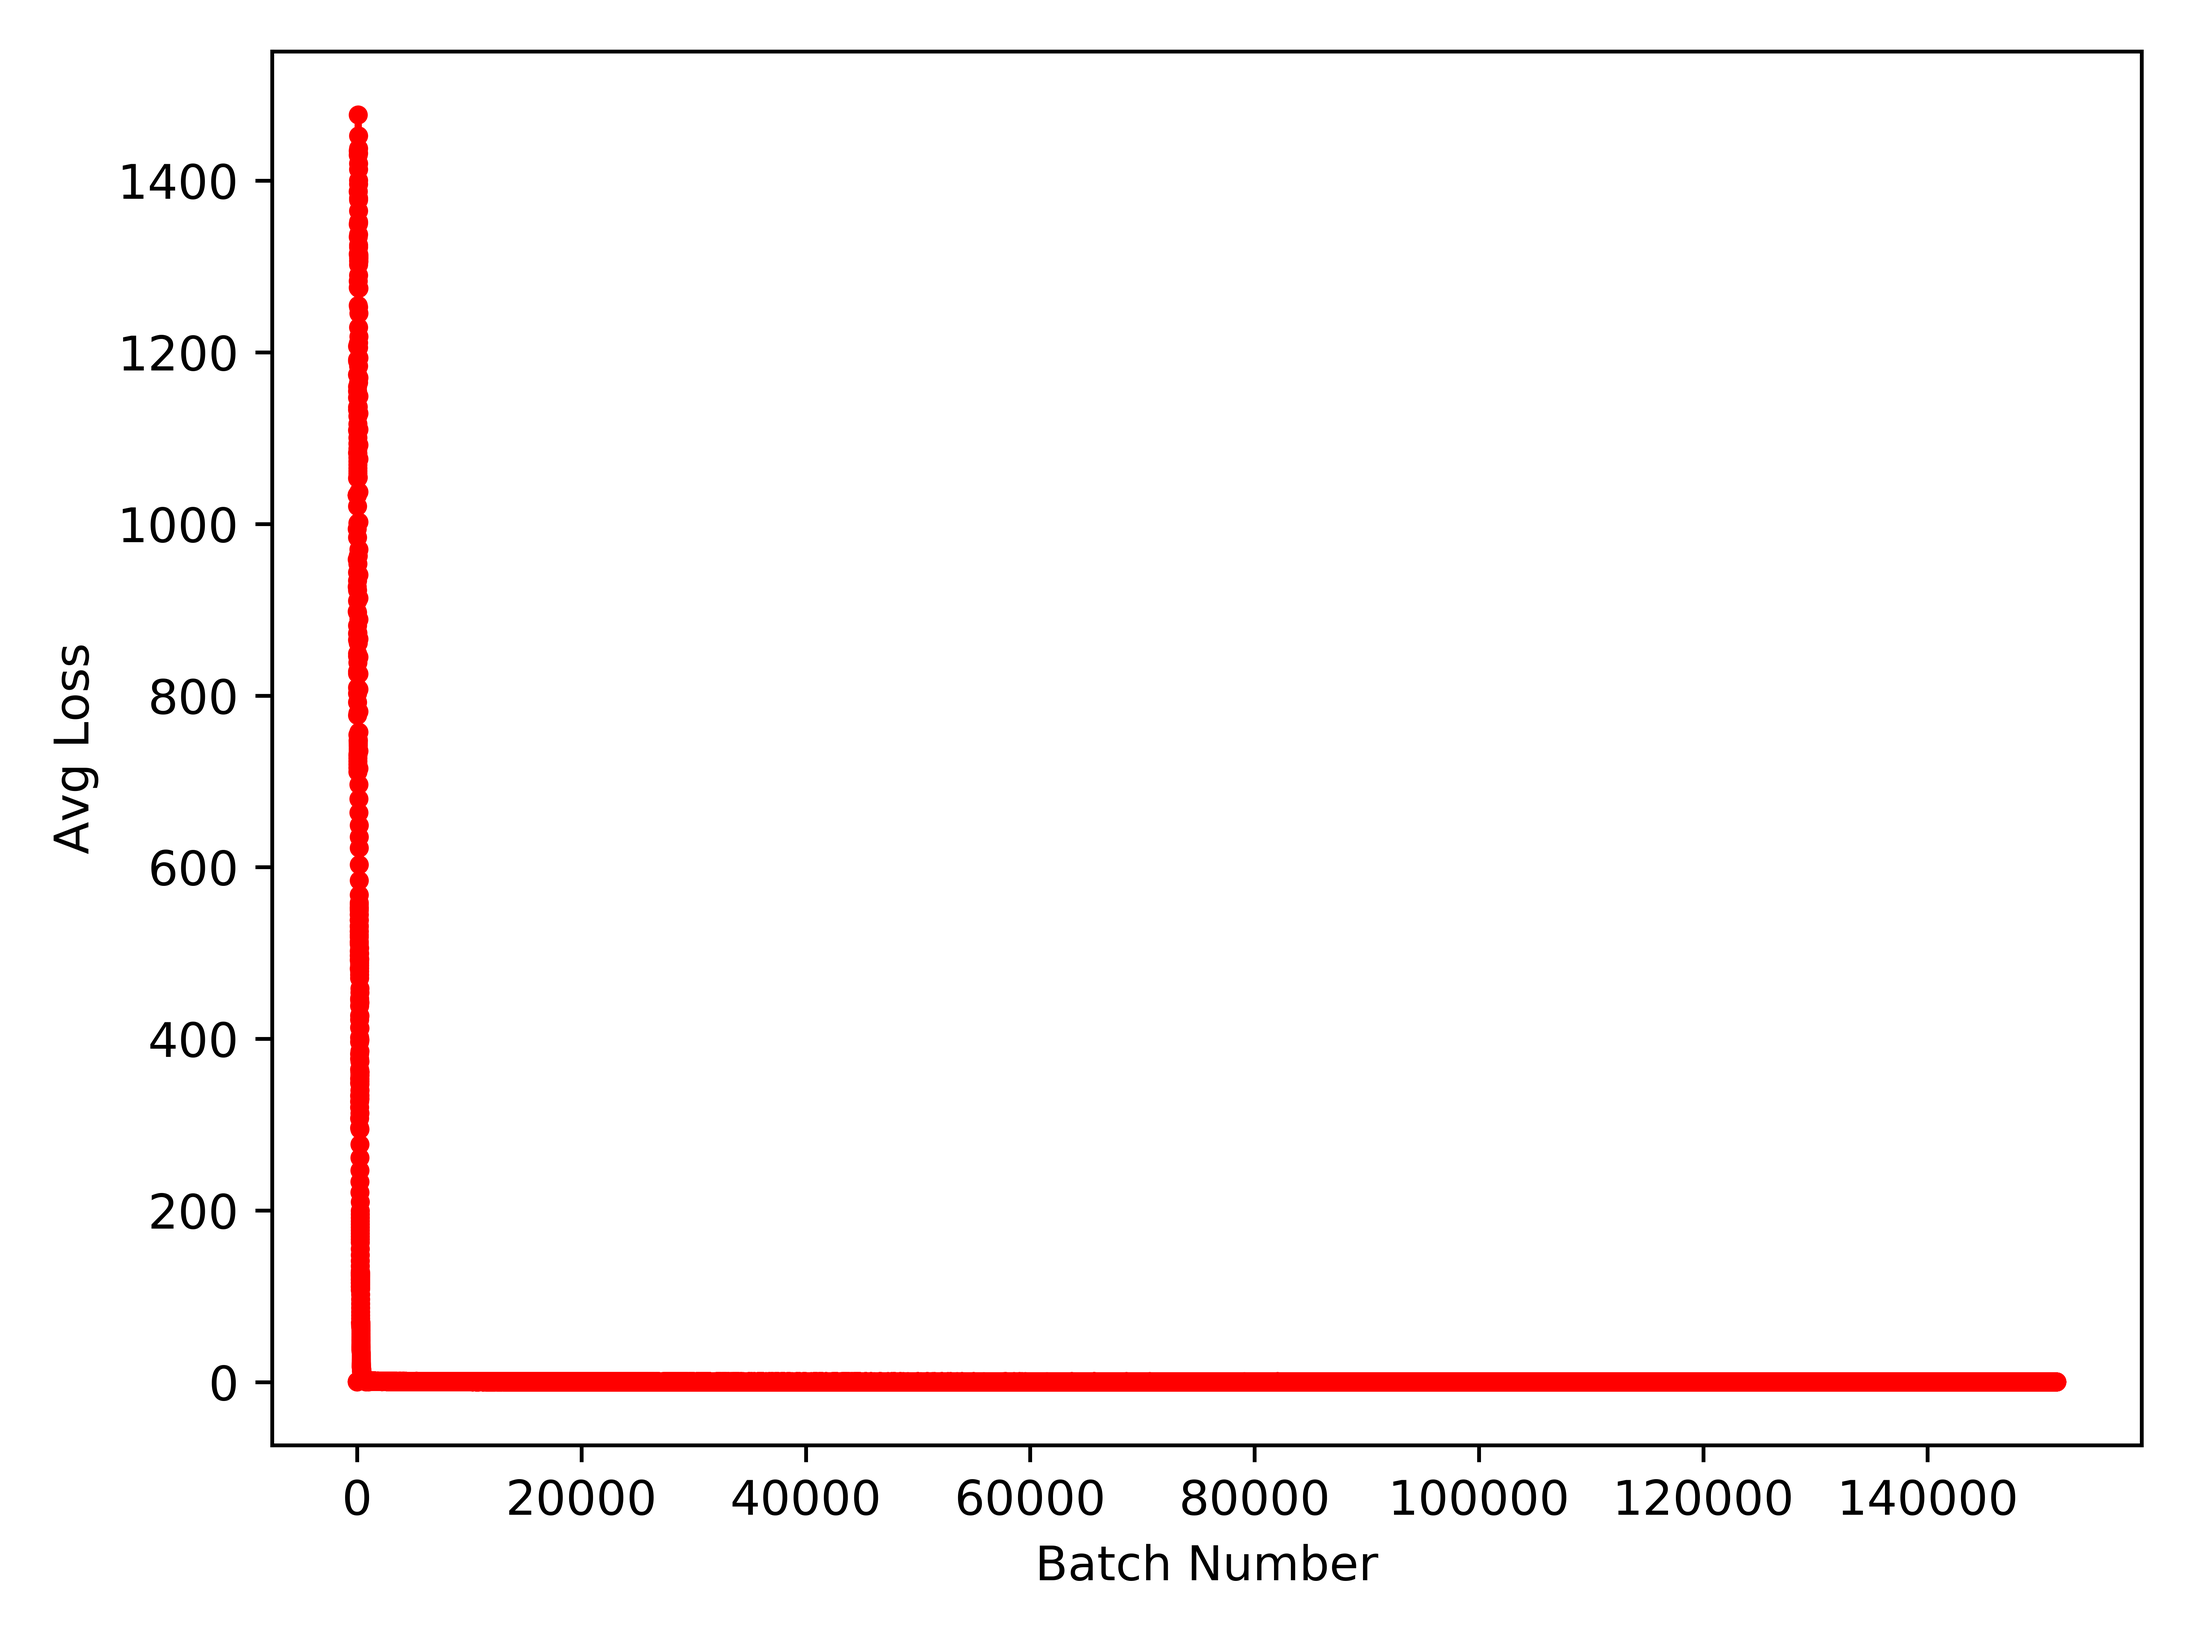
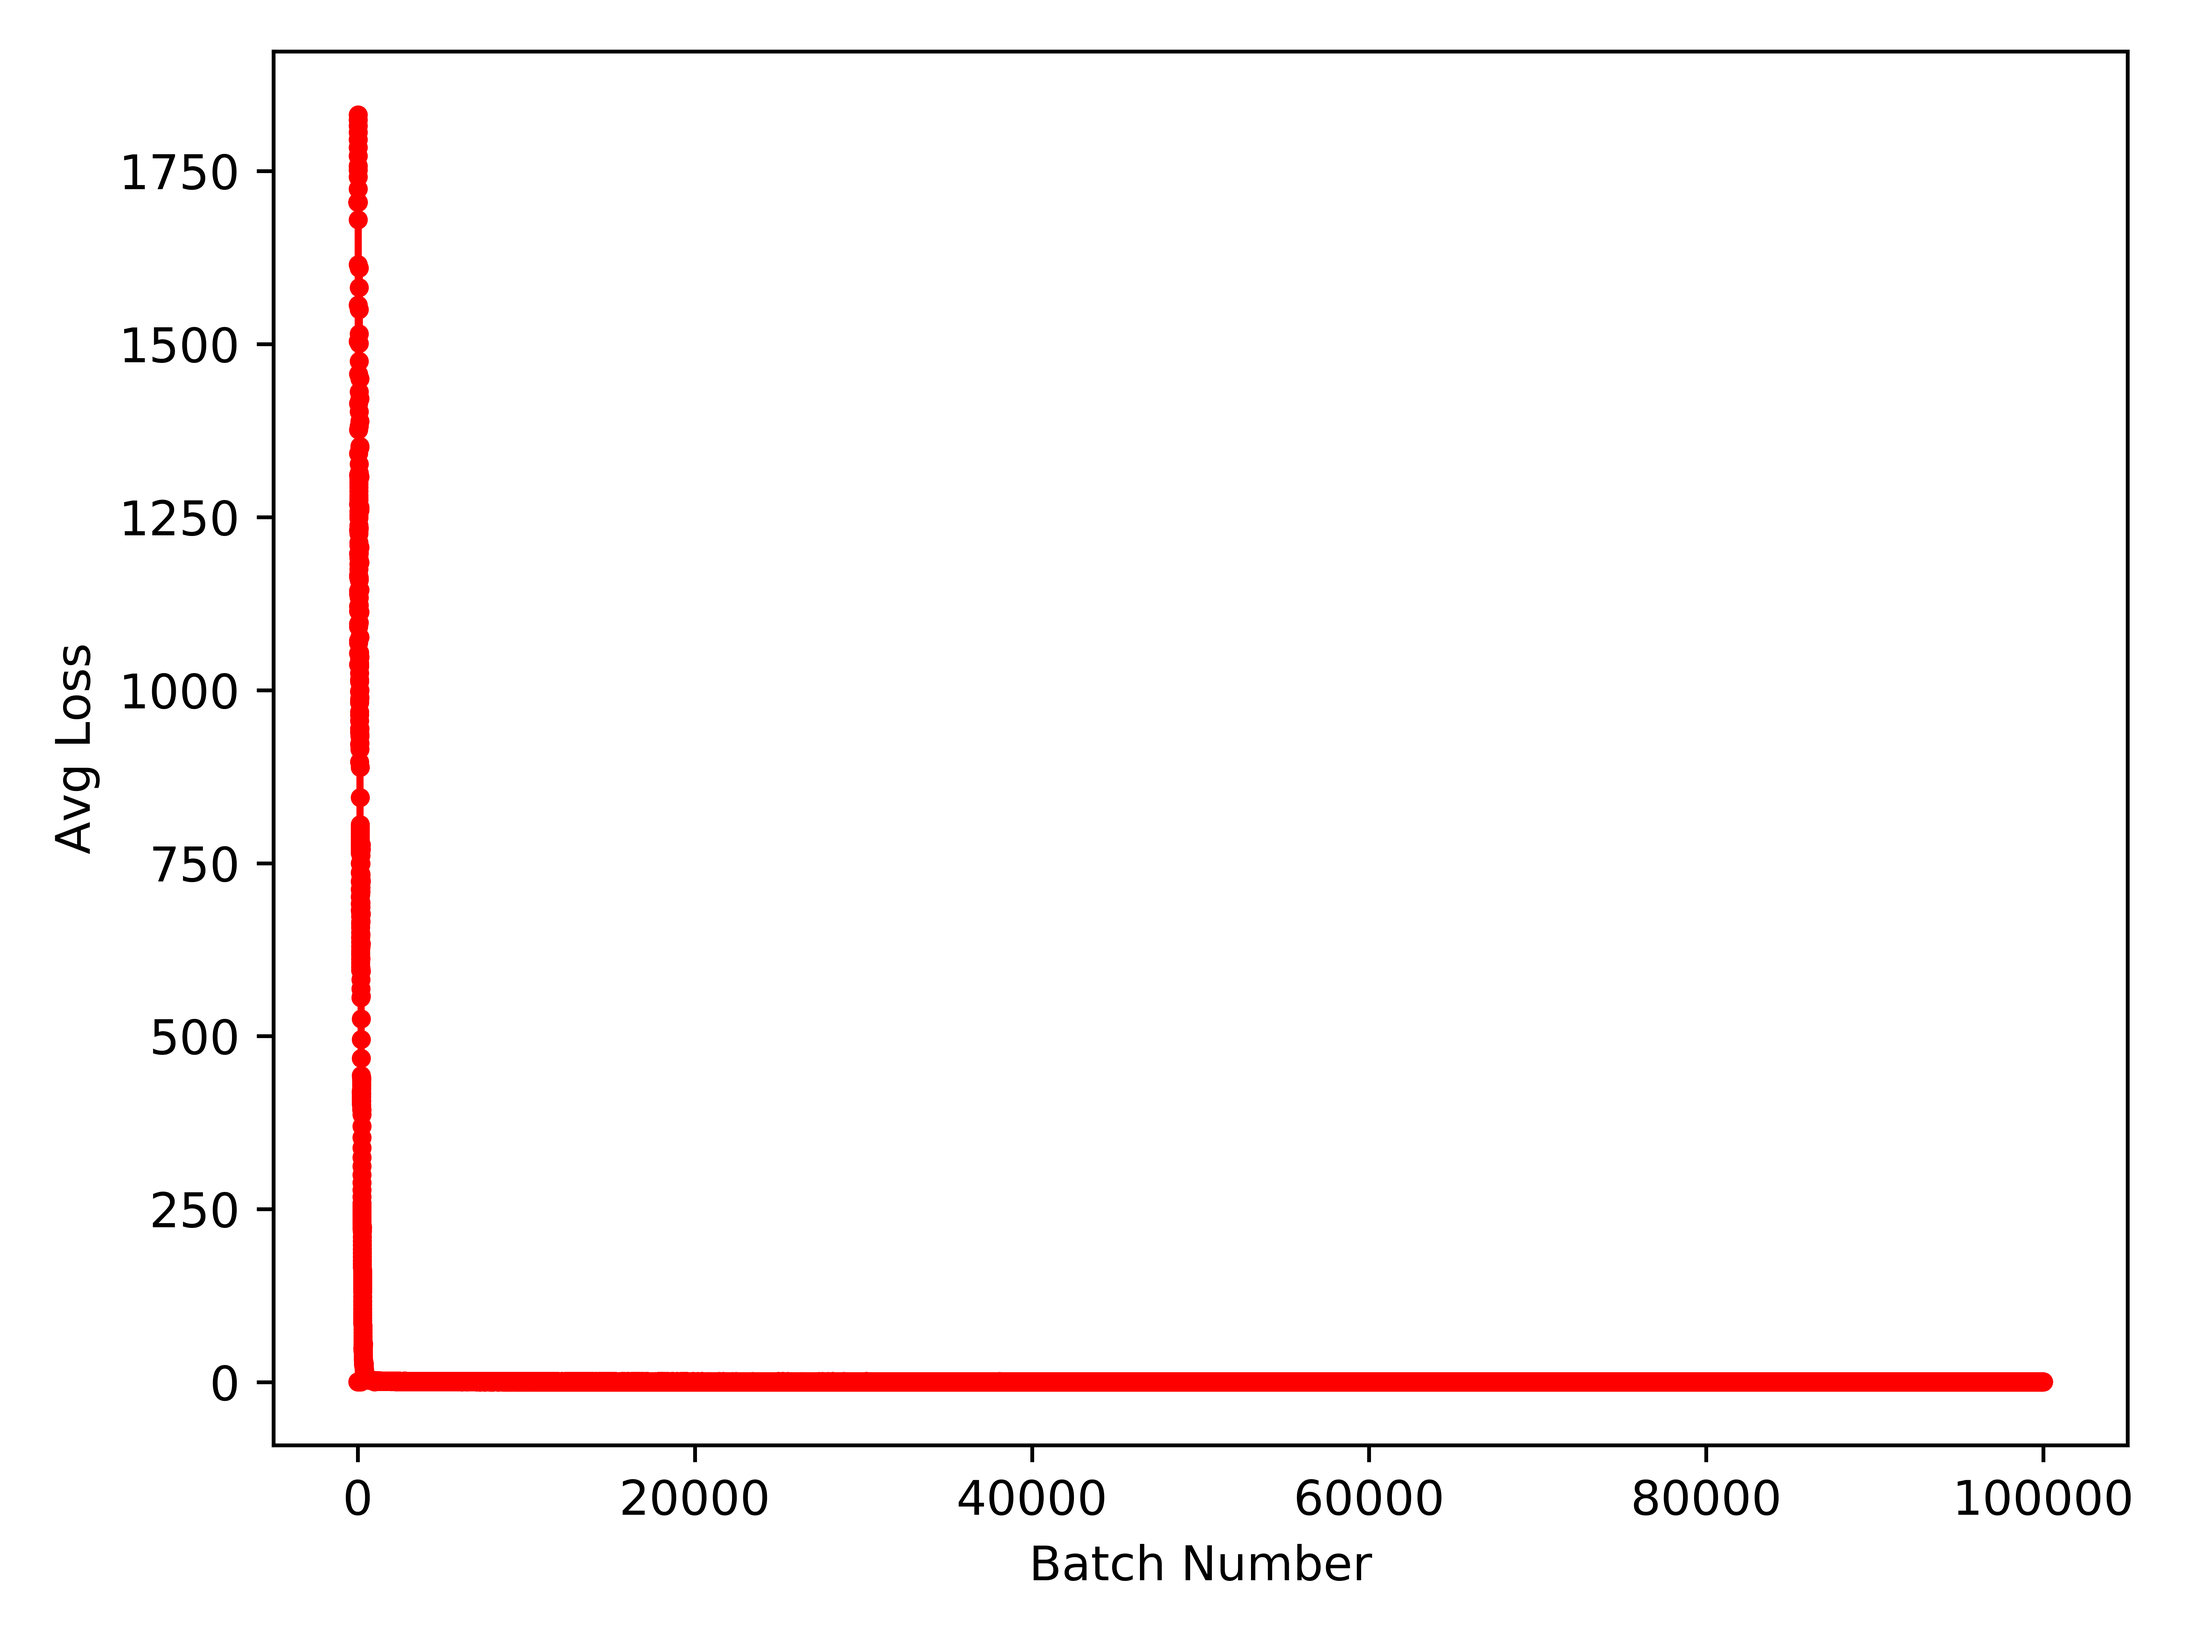
update

diff --git a/analysis_roi_object_detection_yolov3.py b/analysis_roi_object_detection_yolov3.py
@@ -41,16 +41,16 @@ modelBaseDir = "C:/Users/mmc/workspace/yolo"
 #rgs.image = modelBaseDir + "/data/itms/images/4581_20190902220000_00001501.jpg"
 #args.image = "D:/LectureSSD_rescue/project-related/road-weather-topes/code/ITMS/TrafficVideo/20180911_113611_cam_0_bg1x.jpg"
 # for demo.jpg and its labelImg
-args.image = "./images/demo.jpg"
-args.labelImg = "./images/demo_yolo.txt"
+# args.image = "./images/demo.jpg"
+# args.labelImg = "./images/demo_yolo.txt"
 # for demo_v1.jpg and its labelImg
 # args.image = "./images/demo_v1.jpg"
 # args.labelImg = "./images/demo_yolo_v1.txt"
 #args.video = "D:/LectureSSD_rescue/project-related/road-weather-topes/code/ITMS/TrafficVideo/20180912_192557_cam_0.avi"
 
 #for demo4
-args.image = "./images/demo4.jpg"
-args.labelImg = "./images/demo4.txt"
+args.image = "./images/20200421_182213-1_0.jpg"
+args.labelImg = "./images/20200421_182213-1_0.txt"
 
 args.showText = 0
 args.ps = 1
@@ -91,8 +91,10 @@ with open(args.labelImg, 'rt') as f:
 
 # modelConfiguration = modelBaseDir + "/config/itms-dark-yolov3.cfg"
 # modelWeights = modelBaseDir + "/config/itms-dark-yolov3_final_20200113.weights"
-modelConfiguration = modelBaseDir + "/config/itms-dark-yolov3-tiny.cfg"
-modelWeights = modelBaseDir + "/config/itms-dark-yolov3-tiny_30000.weights"
+# modelConfiguration = modelBaseDir + "/config/itms-dark-yolov3-tiny.cfg"
+# modelWeights = modelBaseDir + "/config/itms-dark-yolov3-tiny_30000.weights"
+modelConfiguration = modelBaseDir + "/config/itms-dark-yolov3-tiny_3l-v2.cfg"
+modelWeights = modelBaseDir + "/config/itms-dark-yolov3-tiny_3l-v2_100000.weights"
 
 net = cv.dnn.readNetFromDarknet(modelConfiguration, modelWeights)
 net.setPreferableBackend(cv.dnn.DNN_BACKEND_OPENCV)
@@ -276,8 +278,10 @@ if (args.image):
         print("Input image file ", args.image, " doesn't exist")
         sys.exit(1)
     cap = cv.VideoCapture(args.image)
-    outputFile = args.image[:-4] + '_yolo_out_py_20200113.jpg'
-    outputFileTxt = args.image[:-4] +'__roi_iou_20200113.txt'
+    # outputFile = args.image[:-4] + '_yolo_out_py_20200113.jpg'
+    # outputFileTxt = args.image[:-4] +'__roi_iou_20200113.txt'
+    outputFile = args.image[:-4] + '_yolo_out_py_20200430.jpg'
+    outputFileTxt = args.image[:-4] + '__roi_iou_20200430.txt'
     outInfoFile = open(outputFileTxt, 'wt')
     ## print (classIndex, xcen, ycen, w, h)
     #outInfoFile.write("%.6f %.6f %.6f %.6f\n" % (xcen, ycen, w, h))

diff --git a/roi_object_detection_yolov3.py b/roi_object_detection_yolov3.py
@@ -22,14 +22,15 @@ args = parser.parse_args()
 confThreshold = 0.5  # Confidence threshold
 nmsThreshold = 0.4  # Non-maximum suppression threshold
 
-inpWidth = 32*10 #32*10  # 608     #Width of network's input image # 320(32*10)
-inpHeight = 32*9 #32*9 # 608     #Height of network's input image # 288(32*9) best
+inpWidth = 320# 32*10 #32*10  # 608     #Width of network's input image # 320(32*10)
+inpHeight = 320#32*9 #32*9 # 608     #Height of network's input image # 288(32*9) best
 
 modelBaseDir = "C:/Users/mmc/workspace/yolo"
 #modelBaseDir = "C:/Users/SangkeunLee/workspace/yolo"
 #rgs.image = modelBaseDir + "/data/itms/images/4581_20190902220000_00001501.jpg"
 #args.image = "D:/LectureSSD_rescue/project-related/road-weather-topes/code/ITMS/TrafficVideo/20180911_113611_cam_0_bg1x.jpg"
-args.image = "./images/demo.jpg"
+# args.image = "./images/demo.jpg"
+args.image = "./images/20200421_182213-1_0.jpg"
 #args.video = "D:/LectureSSD_rescue/project-related/road-weather-topes/code/ITMS/TrafficVideo/20180912_192557_cam_0.avi"
 args.showText = 0
 args.ps = 1
@@ -48,9 +49,11 @@ with open(classesFile, 'rt') as f:
 
 # modelConfiguration = "/data-ssd/sunita/snowman/darknet-yolov3.cfg";
 # modelWeights = "/data-ssd/sunita/snowman/darknet-yolov3_final.weights";
+# modelConfiguration = modelBaseDir + "/config/itms-dark-yolov3.cfg"
+# modelWeights = modelBaseDir + "/config/itms-dark-yolov3_final_20200113.weights"
 
-modelConfiguration = modelBaseDir + "/config/itms-dark-yolov3.cfg"
-modelWeights = modelBaseDir + "/config/itms-dark-yolov3_final_20200113.weights"
+modelConfiguration = modelBaseDir + "/config/itms-dark-yolov3-tiny_3l-v2.cfg"
+modelWeights = modelBaseDir + "/config/itms-dark-yolov3-tiny_3l-v2_100000.weights"
 
 net = cv.dnn.readNetFromDarknet(modelConfiguration, modelWeights)
 net.setPreferableBackend(cv.dnn.DNN_BACKEND_OPENCV)

diff --git a/plotAccLoss.py b/plotAccLoss.py
@@ -15,8 +15,8 @@ parser.add_argument("--out", type=str, default="./data/training_loss_plot.png", 
 opt = parser.parse_args()
 
 # parameter settings
-opt.input = "C:/Users/mmc/workspace/yolo/data/itms/itms-train-v1.log"
-opt.out = "./logplots/itms-train-v1-20200427-train-loss-plot.png"
+opt.input = "C:/Users/mmc/workspace/yolo/data/itms/itms-train-v3.log"
+opt.out = "./logplots/itms-train-v3-20200506-train-loss-plot.png"
 
 logFile = opt.input;
 showImgFlag = opt.showImgFlag

diff --git a/Pick_Best_ROI.py b/Pick_Best_ROI.py
@@ -37,8 +37,8 @@ modelBaseDir = "C:/Users/SangkeunLee/workspace/yolo"
 # #args.roiObjects = "./images/demo_v1__roi_iou.txt" #demo_v1__roi_iou_20200113
 # args.roiObjects = "./images/demo_v1__roi_iou_20200113.txt"
 
-args.image = "./images/demo4.jpg"
-args.roiObjects = "./images/demo4__roi_iou_20200113.txt"
+args.image = "./images/20200421_182213-1_0.jpg"
+args.roiObjects = "./images/demo4__roi_iou_20200430.txt"
 
 
 args.saveImg = 1

diff --git a/README.md b/README.md
@@ -1,7 +1,24 @@
 ## Training YOLO with Custom Dataset in PyTorch
 - working on anaconda environment with pyThon36-pyTorch-tf-office.yml  
 - backup dataset!! is located in /workspace/dataset/yolo/data/itms_xxxx(version)
-   ```
+   ```angular2html
+  20200506
+   - itms-dark-yolov3-tiny_3l-v3.cfg
+   - 320 x 320 size
+   - same with the previous one excepet the max iter and learning rate with learning_rate=0.001
+    burn_in=1000
+    max_batches = 10000
+    policy=steps
+    steps=7000,8000
+    scales=.1,.1
+   - minimum loss value is 0.597947 at 8379 iteration
+  
+   - 20200507 : with highGPUs 두 장으로 돌림..
+     training starting with the command as: 
+     ./darknet detector train /workspace/yolo/config/itms-darknet-v1.data /workspace/yolo/config/itms-dark-yolov3-tiny_3l-v3.cfg /workspace/yolo/config/darknet53.conv.74 -gpus 0,1 2>&1 |tee /workspace/yolo/data/itms/itms-train-v3-highGPU.log
+  ```
+  ![high GPUs 2](./logplots/highGpus_darkent.png)
+  ```angular2html
   20200428
    - itms-dark-yolov3-tiny_3l-v2.cfg (batch size = 64 (128: memory error))
    - itms-darknet-v1.data 
@@ -25,7 +42,7 @@
   " ./darknet detector train /workspace/yolo/config/itms-darknet-v1.data 
   /workspace/yolo/config/itms-dark-yolov3-tiny_3l-v1.cfg 
   /workspace/yolo/config/darknet53.conv.74 2>&1 |tee /workspace/yolo/data/itms/itms-train-v1.log"
-  => minimum loss value is 0.298397 at 147754 iteration
+  => minimum loss value is 0.298397 at `147754` iteration
   
   20200117
    - itms-dark-yolov3-tiny_3l.cfg
